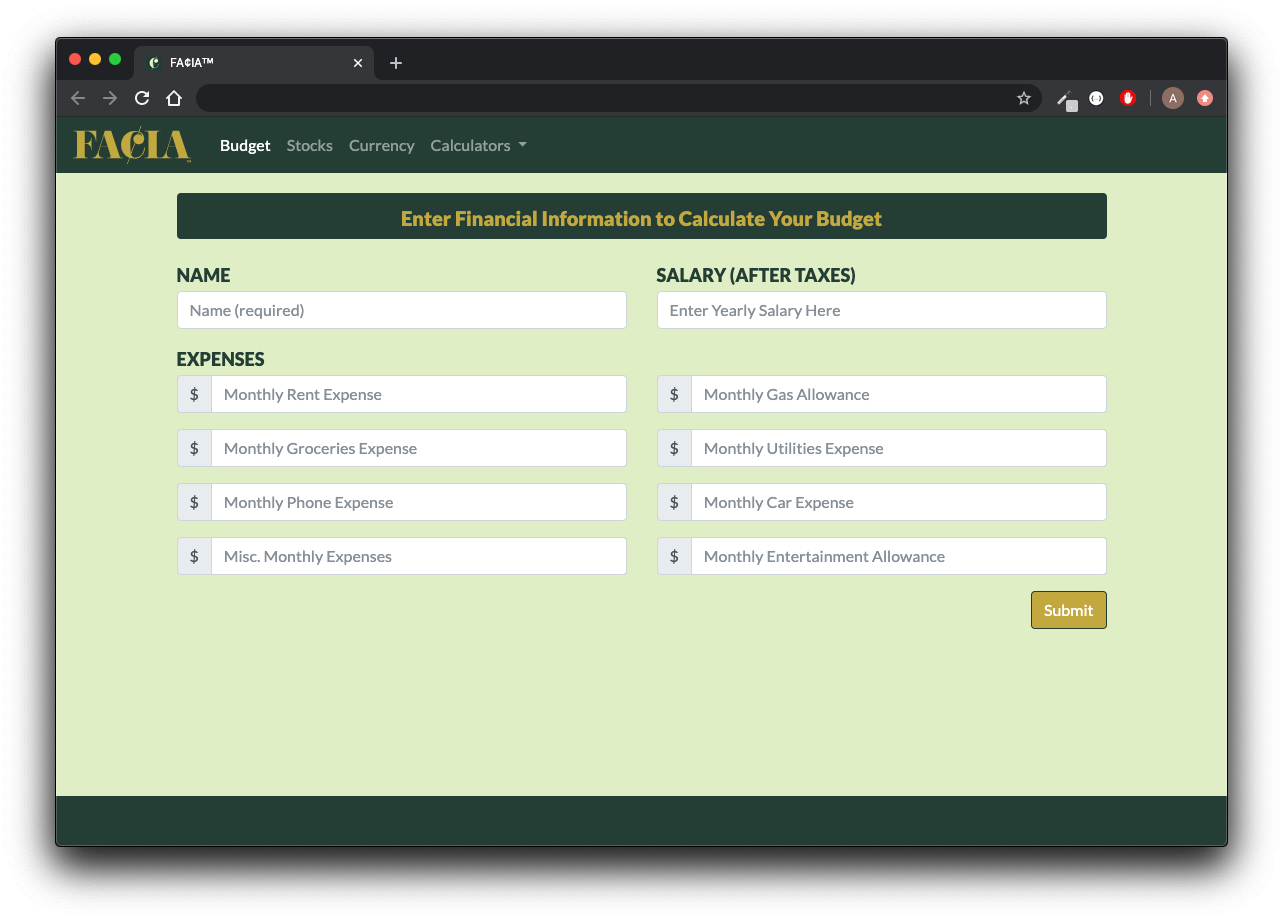
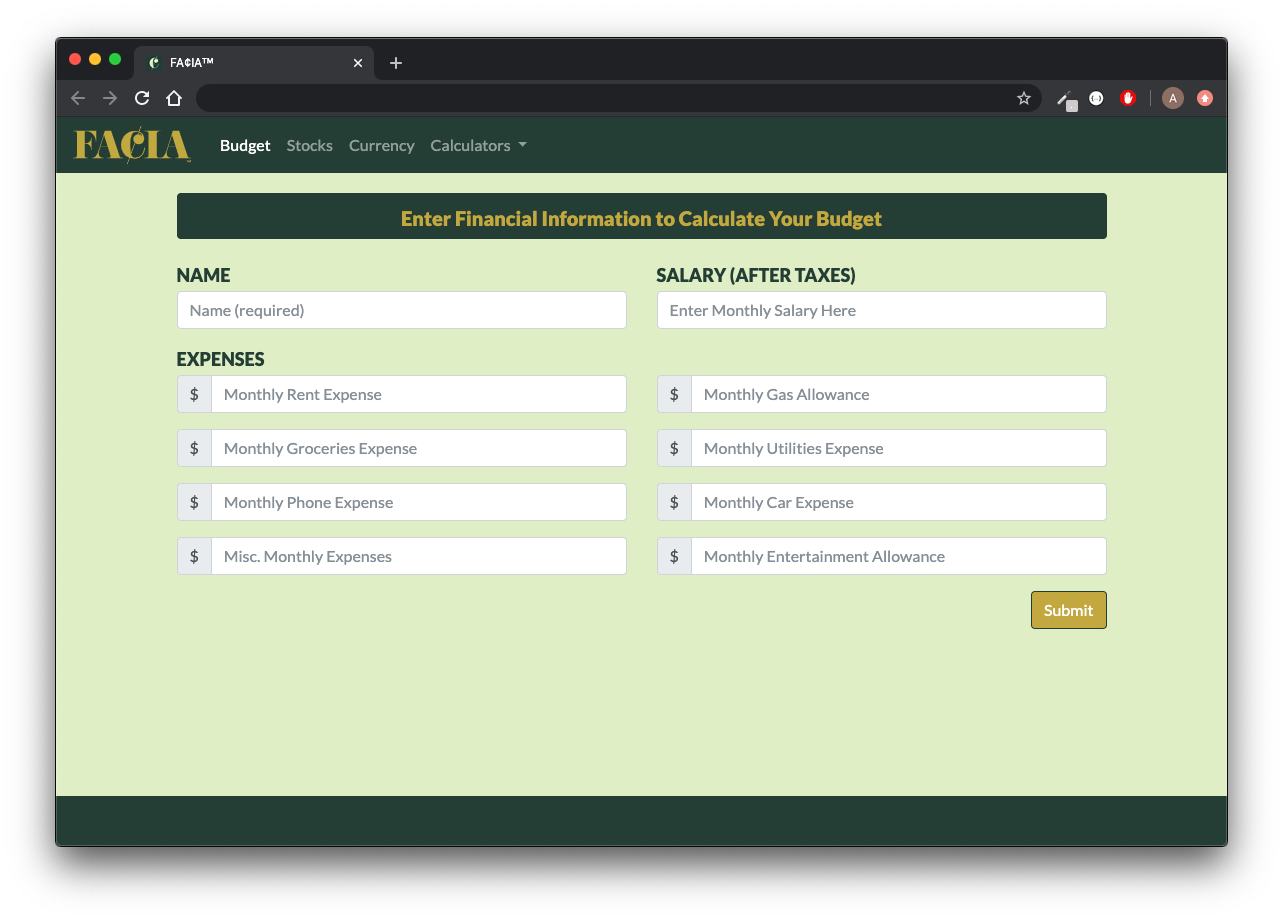
adding stocks to README, updating budgeting HTML screenshot, updating presentation

Changed region(s): [[0.0, 0.0609, 0.9977, 0.9739], [0.5612, 0.3348, 0.6547, 0.3652]]

diff --git a/views/budget.html b/views/budget.html
@@ -77,7 +77,7 @@
               <h4>Salary (after taxes)</h4>
               <!-- <label for="budget"></label> -->
               <input required type="number" step=".01" pattern="\d+" min="0" id="salary" class="form-control"
-                aria-describedby="salary" placeholder="Enter Yearly Salary Here">
+                aria-describedby="salary" placeholder="Enter Monthly Salary Here">
             </div>
           </div>
 
